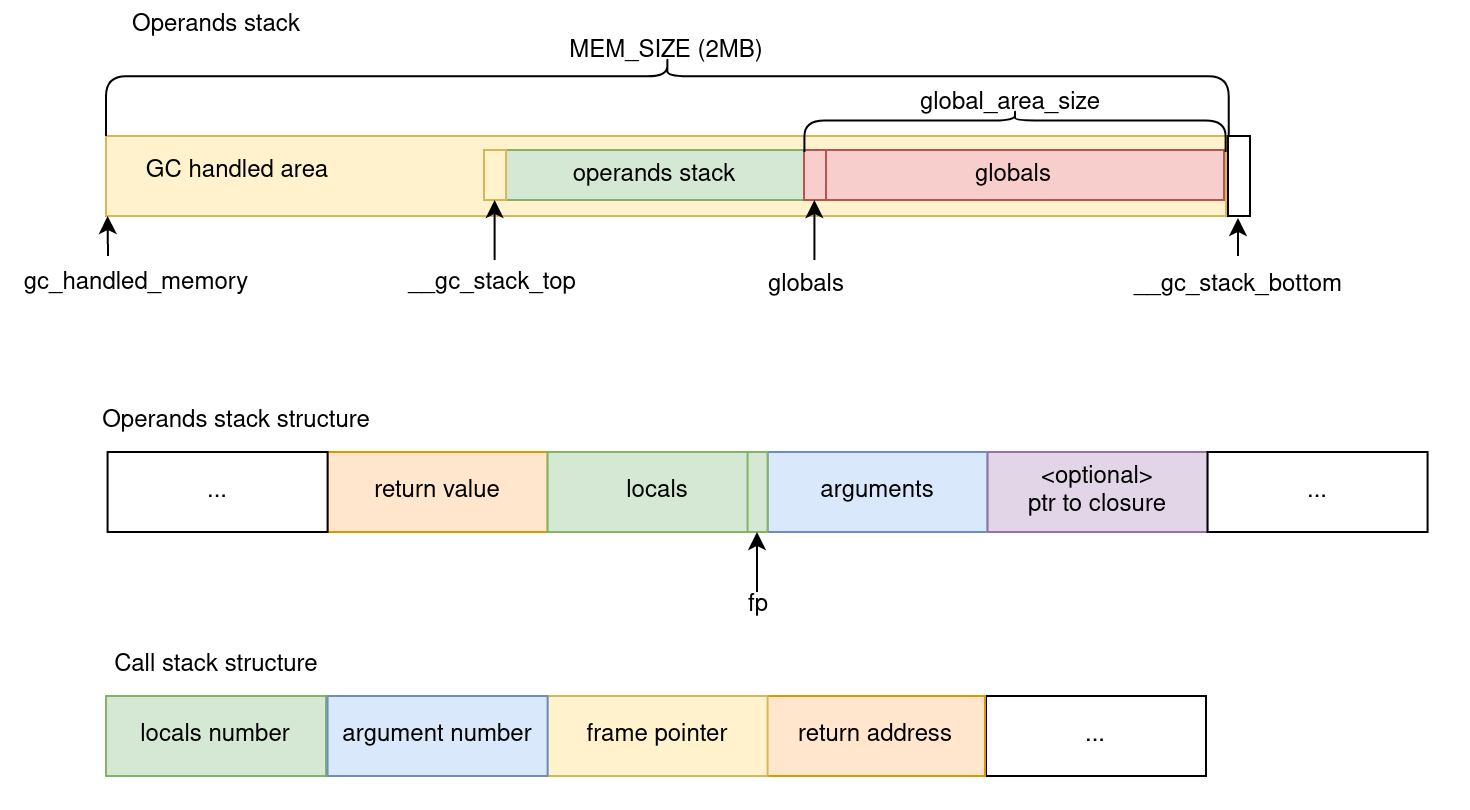
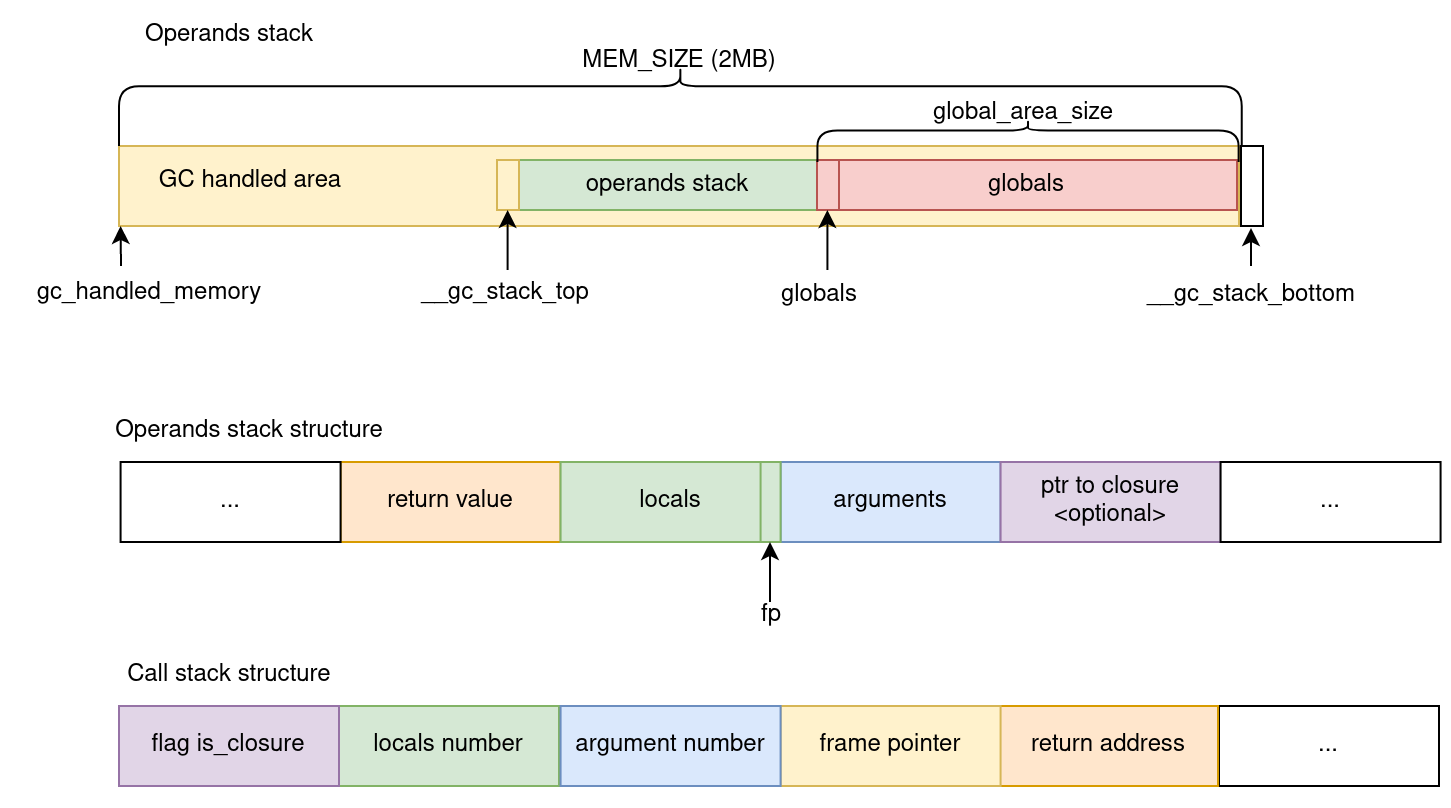
up to 92 (fix closure removing from sp)

diff --git a/src/iterinter.c b/src/iterinter.c
@@ -20,11 +20,8 @@ extern void* Bsta(void* v, int i, void* x);
 extern int LtagHash(char*);
 extern int Btag(void* d, int t, int n);
 extern void* Lstring(void* p);
-extern int Bclosure_tag_patt(void* x);
 extern int Bstring_patt(void* x, void* y);
 extern int Barray_patt(void* d, int n);
-extern int Bstring_tag_patt(void* x);
-extern int Barray_tag_patt(void* x);
 
 #define ASSERT_TRUE(condition, msg, ...)                         \
     do                                                           \
@@ -136,8 +133,9 @@ addr* globals;
 // bytefile info
 bytefile* bf;
 
-int n_args;
-int n_locals;
+int n_args = 0;
+int n_locals = 0;
+bool is_closure = false;
 
 // get operands stack top
 static inline addr* sp() { return (addr*)__gc_stack_top; }
@@ -211,16 +209,19 @@ inline static int32_t next_int() {
 inline static void call(void) {
     int32_t func_label = next_int();
     int32_t n_args = next_int();
+    is_closure = false;
 
     push_call((addr)ip);  // return address
     update_ip(bf->code_ptr + func_label);
 }
 
-void begin(int new_n_locs, int new_n_args) {
+inline static void begin(int new_n_locs, int new_n_args) {
     // save frame pointer of callee function
     push_call((addr)fp);
     push_call(n_args);
     push_call(n_locals);
+    push_call(is_closure);
+
     fp = sp();
 
     n_args = new_n_args, n_locals = new_n_locs;
@@ -230,22 +231,7 @@ void begin(int new_n_locs, int new_n_args) {
     }
 }
 
-#define IS_MAIN (call_stack_top == call_stack_bottom - 1)
-static inline void end() {
-    addr return_val = pop_op();
-    move_sp(n_args + n_locals);
-    push_op(return_val);
-
-    n_locals = pop_call();   // locs_n
-    n_args = pop_call();     // args_n
-    fp = (addr*)pop_call();  // fp
-
-    if (call_stack_top != call_stack_bottom - 1) {
-        ip = (unsigned char*)pop_call();  // ret addr
-    }
-}
-
-void tag(void) {
+inline static void tag(void) {
     // for pattern matching: check
     // that sexp has given tag and fields count
     char* tag = STRING;
@@ -264,7 +250,7 @@ inline static int32_t get_closure(int32_t* p) {
 }
 
 enum { G, L, A, C };
-addr* get_addr(addr place, addr idx) {
+inline static addr* get_addr(addr place, addr idx) {
     ASSERT_TRUE(idx >= 0, "Index less than zero!!");
     switch (place) {
         case G:
@@ -315,7 +301,6 @@ void STA() {
 // expired by function `Bclosure` from runtime.c
 inline static void closure(void) {
     int i, ai;
-    size_t* argss;
     data* r;
 
     void* closure_addr = (void*)next_int();
@@ -348,9 +333,31 @@ inline static void call_closure(void) {
     // Stack store count of closure arguments and closure object
     // in 0 field in closure stored address, in other -- captured variables
     int32_t closure_label = get_closure((int32_t*)sp()[n_args + 1]);
+    is_closure = true;
 
     push_call((addr)ip);  // return address
     update_ip(bf->code_ptr + (int32_t)closure_label);
+}
+
+#define IS_MAIN (call_stack_top == call_stack_bottom - 1)
+static inline void end() {
+    addr return_val = pop_op();
+    move_sp(n_args + n_locals);
+    
+    bool is_closure = pop_call();
+    if (is_closure) {
+        pop_op();
+    }
+
+    push_op(return_val);
+
+    n_locals = pop_call();   // locs_n
+    n_args = pop_call();     // args_n
+    fp = (addr*)pop_call();  // fp
+
+    if (call_stack_top != call_stack_bottom - 1) {
+        ip = (unsigned char*)pop_call();  // ret addr
+    }
 }
 //"+", "-", "*", "/", "%", "<", "<=", ">", ">=", "==", "!=", "&&", "!!"
 void binop(int32_t operator_code) {
@@ -573,6 +580,7 @@ static inline void interpret(FILE* f) {
                         break;
 
                     case 11: {
+                        // ELEM
                         int32_t idx = pop_op();
                         int32_t array = pop_op();
                         push_op((int32_t)Belem((char*)array, idx));
@@ -664,7 +672,7 @@ static inline void interpret(FILE* f) {
             case 7: {
                 switch (l) {
                     case 0: {
-                        // read make it BOX
+                        // read make it BOX itself
                         addr value = Lread();
                         push_op(value);
                         break;
